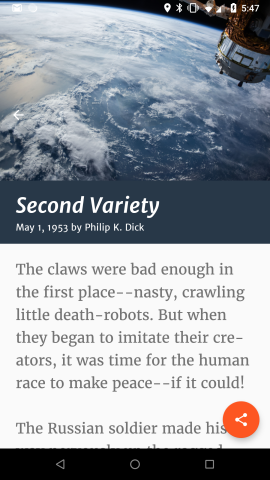
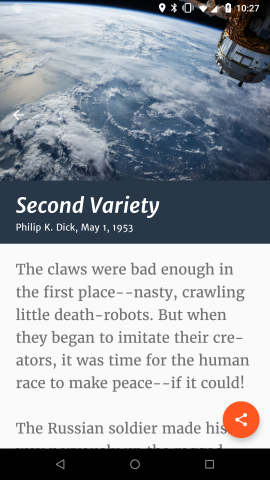
Moved duplicate date logic from two starter code files into its own DateUtils class

Changed region(s): [[0.0593, 0.4688, 0.5333, 0.5], [0.5926, 0.0, 0.9481, 0.0312]]

diff --git a/app/src/main/java/com/tachyonlabs/xyzreader/adapters/ArticleListAdapter.java b/app/src/main/java/com/tachyonlabs/xyzreader/adapters/ArticleListAdapter.java
@@ -4,13 +4,13 @@ import com.github.florent37.picassopalette.PicassoPalette;
 import com.squareup.picasso.Picasso;
 import com.tachyonlabs.xyzreader.R;
 import com.tachyonlabs.xyzreader.data.ArticleLoader;
+import com.tachyonlabs.xyzreader.utils.DateUtils;
 
 import android.content.Context;
 import android.database.Cursor;
 import android.support.annotation.NonNull;
 import android.support.v7.widget.RecyclerView;
 import android.text.Html;
-import android.text.format.DateUtils;
 import android.util.Log;
 import android.view.LayoutInflater;
 import android.view.View;
@@ -19,18 +19,10 @@ import android.widget.ImageView;
 import android.widget.LinearLayout;
 import android.widget.TextView;
 
-import java.text.SimpleDateFormat;
-import java.util.Date;
-import java.util.GregorianCalendar;
-
 public class ArticleListAdapter extends RecyclerView.Adapter<ArticleListAdapter.ArticleListAdapterViewHolder> {
     private final static String TAG = ArticleListAdapter.class.getSimpleName();
     private final ArticleListAdapterOnClickHandler mClickHandler;
     private Cursor mCursor;
-    // Most time functions can only handle 1902 - 2037
-    private GregorianCalendar START_OF_EPOCH = new GregorianCalendar(2, 1, 1);
-    // Use default locale format
-    private SimpleDateFormat outputFormat = new SimpleDateFormat();
 
     public ArticleListAdapter(Context context, ArticleListAdapterOnClickHandler articleListAdapterOnClickHandler) {
         mClickHandler = articleListAdapterOnClickHandler;
@@ -60,29 +52,15 @@ public class ArticleListAdapter extends RecyclerView.Adapter<ArticleListAdapter.
         mCursor.moveToPosition(position);
         Log.d(TAG, "onBindViewHolder position is " + position + " " + mCursor.getString(ArticleLoader.Query.TITLE));
         holder.titleView.setText(mCursor.getString(ArticleLoader.Query.TITLE));
-        Date publishedDate = com.tachyonlabs.xyzreader.utils.DateUtils.parsePublishedDate(mCursor.getString(ArticleLoader.Query.PUBLISHED_DATE));
-        if (!publishedDate.before(START_OF_EPOCH.getTime())) {
-
-            holder.subtitleView.setText(Html.fromHtml(
-                    mCursor.getString(ArticleLoader.Query.AUTHOR)
-                            + "<br/>" +
-                            DateUtils.getRelativeTimeSpanString(
-                                    publishedDate.getTime(),
-                                    System.currentTimeMillis(), DateUtils.HOUR_IN_MILLIS,
-                                    DateUtils.FORMAT_ABBREV_ALL).toString()));
-        } else {
-            holder.subtitleView.setText(Html.fromHtml(
-                    mCursor.getString(ArticleLoader.Query.AUTHOR)
-                            + "<br/>" + outputFormat.format(publishedDate)));
-        }
-
-        String photoUrlString = mCursor.getString(ArticleLoader.Query.THUMB_URL);
+        holder.subtitleView.setText(Html.fromHtml(mCursor.getString(ArticleLoader.Query.AUTHOR) + "<br/>" +
+                DateUtils.parsePublishedDate(mCursor.getString(ArticleLoader.Query.PUBLISHED_DATE))));
+        String thumbnailUrlString = mCursor.getString(ArticleLoader.Query.THUMB_URL);
         Picasso.with(holder.thumbnailView.getContext())
-                .load(photoUrlString)
+                .load(thumbnailUrlString)
                 .placeholder(R.drawable.empty_detail)
                 .error(R.drawable.empty_detail)
                 .into(holder.thumbnailView,
-                        PicassoPalette.with(photoUrlString, holder.thumbnailView)
+                        PicassoPalette.with(thumbnailUrlString, holder.thumbnailView)
                                 .use(PicassoPalette.Profile.MUTED_DARK)
                                 .intoBackground(holder.textBackground)
 

diff --git a/app/src/main/java/com/tachyonlabs/xyzreader/ui/ArticleDetailFragment.java b/app/src/main/java/com/tachyonlabs/xyzreader/ui/ArticleDetailFragment.java
@@ -14,7 +14,6 @@ import android.support.v4.content.Loader;
 import android.support.v7.app.AppCompatActivity;
 import android.support.v7.widget.Toolbar;
 import android.text.Html;
-import android.text.format.DateUtils;
 import android.util.Log;
 import android.view.LayoutInflater;
 import android.view.View;
@@ -22,10 +21,6 @@ import android.view.ViewGroup;
 import android.widget.ImageView;
 import android.widget.LinearLayout;
 import android.widget.TextView;
-
-import java.text.SimpleDateFormat;
-import java.util.Date;
-import java.util.GregorianCalendar;
 
 /**
  * A fragment representing a single Article detail screen. This fragment is
@@ -48,11 +43,6 @@ public class ArticleDetailFragment extends Fragment implements
     private int mScrollY;
     private boolean mIsCard = false;
     private int mStatusBarFullOpacityBottom;
-
-    // Use default locale format
-    private SimpleDateFormat outputFormat = new SimpleDateFormat();
-    // Most time functions can only handle 1902 - 2037
-    private GregorianCalendar START_OF_EPOCH = new GregorianCalendar(2,1,1);
 
     /**
      * Mandatory empty constructor for the fragment manager to instantiate the
@@ -141,7 +131,6 @@ public class ArticleDetailFragment extends Fragment implements
         TextView bodyView = mRootView.findViewById(R.id.article_body);
 
         if (mCursor != null) {
-            mRootView.setVisibility(View.VISIBLE);
             String photoUrlString = mCursor.getString(ArticleLoader.Query.PHOTO_URL);
             Picasso.with(getActivity())
                     .load(photoUrlString)
@@ -156,26 +145,7 @@ public class ArticleDetailFragment extends Fragment implements
                                     .intoBackground(titleLayout, PicassoPalette.Swatch.RGB)
                     );
             titleView.setText(mCursor.getString(ArticleLoader.Query.TITLE));
-//            Toast.makeText(getActivity(), mCursor.getString(ArticleLoader.Query.TITLE), Toast.LENGTH_LONG).show();
-            Date publishedDate = com.tachyonlabs.xyzreader.utils.DateUtils.parsePublishedDate(mCursor.getString(ArticleLoader.Query.PUBLISHED_DATE));
-            if (!publishedDate.before(START_OF_EPOCH.getTime())) {
-                bylineView.setText(Html.fromHtml(
-                        DateUtils.getRelativeTimeSpanString(
-                                publishedDate.getTime(),
-                                System.currentTimeMillis(), DateUtils.HOUR_IN_MILLIS,
-                                DateUtils.FORMAT_ABBREV_ALL).toString()
-                                + " by <font color='#ffffff'>"
-                                + mCursor.getString(ArticleLoader.Query.AUTHOR)
-                                + "</font>"));
-
-            } else {
-                // If date is before 1902, just show the string
-                bylineView.setText(Html.fromHtml(
-                        outputFormat.format(publishedDate) + " by <font color='#ffffff'>"
-                        + mCursor.getString(ArticleLoader.Query.AUTHOR)
-                                + "</font>"));
-
-            }
+            bylineView.setText(String.format("%s, %s", mCursor.getString(ArticleLoader.Query.AUTHOR), com.tachyonlabs.xyzreader.utils.DateUtils.parsePublishedDate(mCursor.getString(ArticleLoader.Query.PUBLISHED_DATE))));
             String bodyString = mCursor.getString(ArticleLoader.Query.BODY).substring(0, 2000).replaceAll("\r", "").replaceAll("\n\n", "<br/><br/>").replaceAll("\n", " ");
             bodyView.setText(Html.fromHtml(bodyString));
         }

diff --git a/app/src/main/java/com/tachyonlabs/xyzreader/utils/DateUtils.java b/app/src/main/java/com/tachyonlabs/xyzreader/utils/DateUtils.java
@@ -5,12 +5,18 @@ import android.util.Log;
 import java.text.ParseException;
 import java.text.SimpleDateFormat;
 import java.util.Date;
+import java.util.GregorianCalendar;
 
 public class DateUtils {
     private static final String TAG = DateUtils.class.getSimpleName();
-    private static SimpleDateFormat dateFormat = new SimpleDateFormat("yyyy-MM-dd'T'HH:mm:ss.sss");
 
-    public static Date parsePublishedDate(String date) {
+    // Most time functions can only handle 1902 - 2037
+    private static final GregorianCalendar START_OF_EPOCH = new GregorianCalendar(2, 1, 1);
+    // Use default locale format
+    private static final SimpleDateFormat outputFormat = new SimpleDateFormat();
+    private static final SimpleDateFormat dateFormat = new SimpleDateFormat("yyyy-MM-dd'T'HH:mm:ss.sss");
+
+    public static Date stringToDate(String date) {
         try {
             return dateFormat.parse(date);
         } catch (ParseException ex) {
@@ -20,5 +26,17 @@ public class DateUtils {
         }
     }
 
+    public static String parsePublishedDate(String date) {
+        Date pubDate = stringToDate(date);
+        if (!pubDate.before(START_OF_EPOCH.getTime())) {
+            return android.text.format.DateUtils.getRelativeTimeSpanString(
+                                    pubDate.getTime(),
+                                    System.currentTimeMillis(), android.text.format.DateUtils.HOUR_IN_MILLIS,
+                                    android.text.format.DateUtils.FORMAT_ABBREV_ALL).toString();
+        } else {
+            // If date is before 1902, just show the string
+            return outputFormat.format(pubDate);
+        }
+    }
 
 }

diff --git a/app/src/main/java/com/tachyonlabs/xyzreader/ui/ArticleDetailActivity.java b/app/src/main/java/com/tachyonlabs/xyzreader/ui/ArticleDetailActivity.java
@@ -19,7 +19,6 @@ import android.support.v4.view.ViewPager;
 import android.support.v7.app.AppCompatActivity;
 import android.util.Log;
 import android.view.View;
-import android.widget.Toast;
 
 /**
  * An activity representing a single Article detail screen, letting you swipe between articles.
@@ -151,9 +150,7 @@ public class ArticleDetailActivity extends AppCompatActivity
     }
 
     private void fabShare() {
-        int which = mPager.getCurrentItem();
-        mCursor.moveToPosition(which);
-        Toast.makeText(this, mCursor.getString(ArticleLoader.Query.TITLE), Toast.LENGTH_LONG).show();
+        mCursor.moveToPosition(mPager.getCurrentItem());
         startActivity(Intent.createChooser(ShareCompat.IntentBuilder.from(this)
                 .setType("text/plain")
                 .setSubject(String.format("%s, by %s, %s",
